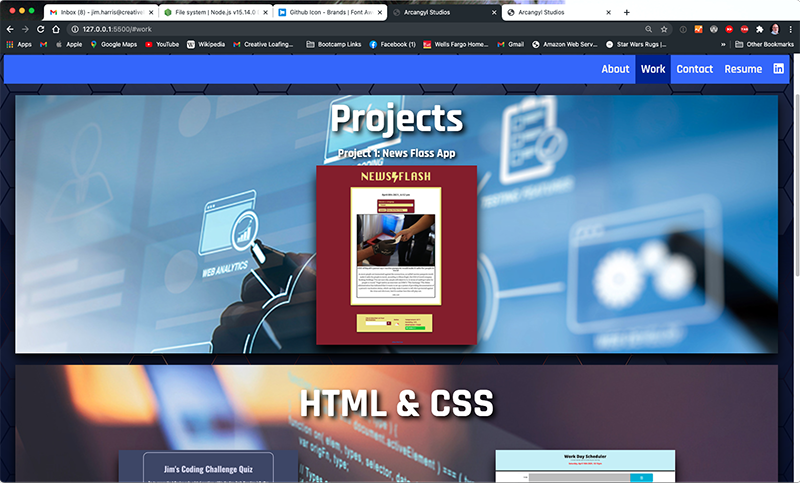
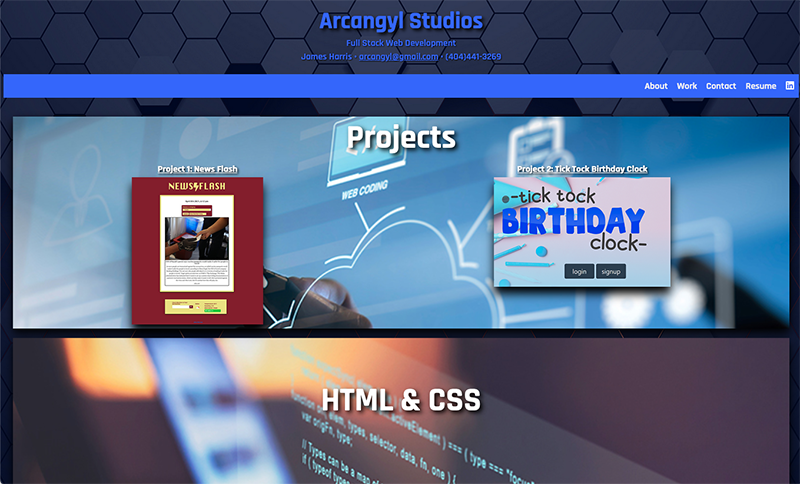
Updated README document and updated two of the README images

diff --git a/README.md b/README.md
@@ -1,59 +1,110 @@
-# AS-Portfolio
+# AS-Portfolio<br>
+###### *Updated June 2021*
 
 ## Description
 
-Newly redesigned portfolio page. Now includes images and links for homework projects: Coding Quiz Challenge, Weather Dashboard App, and Work Day Scheduler. The featured work panel for major projects now features Project 1:  News Flash App. Redesigned the About section so that it is initially hidden and only the work project sections are diplayed on initial load. Clicking the Navbar buttons for About and Work will toggle the content visibility for those sections.
-The work sections each have a heading label that will reveal the projects associated with the respective section when the heading is clicked. Each project has a title element that will load the GitHub repository page for that project in a separate tab. Clicking on the image will load published app page in separate tab.
+Updated portfolio page now includes images and links for latest homework projects: Third Triad Mojo Tech Blog, Note Taker App, and Password Generator in addition to the previous homework projects: Coding Quiz Challenge, Weather Dashboard App, and Work Day Scheduler. The featured work panel for major Projects now features Project 1:  News Flash App and Project 2: Tick Tock Birthday Clock. The Resume link now downloads an updated resume as well.
 
-## Installation
+Utilizes the following technologies:
+  * HTML
+  * JavaScript
+  * CSS
+---
 
-My files can be accessed in the repository [HERE](https://github.com/arcangyl1963/AS-Portfolio)
-The image below shows the repository where my project files are located:
+## Table of Contents<br>
 
-![Porfolio Repository](./assets/images/readme_portfolio_repository.png)
+[Usage](#usage)<br>
 
-The web application can be viewed [HERE](https://arcangyl1963.github.io/AS-Portfolio/).
+[License](#license)<br>
 
-The images below show the updated portfolio page design and highlights to some of the new features that have been added:
+[Contributors](#contributors)<br>
 
-The main page shows the redesigned layout featuring an updated theme and background image. The work project sections are displayed by default while the About bio section is hidden.
+[Tests](#tests)<br>
 
-![Main Portfolio Page](./assets/images/readme_portfolio_main_pg.png)
+[Questions](#Questions)<br>
 
-Clicking the About button in the navbar while hide the work project sections and reveal the About bio content. Note the About nav button color changes when it is the active selection.
+---
 
-![About Bio Revealed](./assets/images/readme_portfolio_about_bio.png)
+## Usage
 
-Hovering the cursor over the navbar buttons will also change the color theme of the button contents.
+My files can be accessed in the repository [HERE](https://github.com/arcangyl1963/AS-Portfolio)<br>
 
-![Button theme change on hover](./assets/images/readme_portfolio_button-hover.png)
+The image below shows the repository where my project files are located:<br>
 
-Clicking another navbar button will return the previously active button to the inactive theme state and the clicked button will display as active. Clicking the Work button reveals the work projects section and hides the About Bio section content.
+![Porfolio Repository](./assets/images/readme_portfolio_repository.png)<br>
 
-![Active navbar buttons](./assets/images/readme_portfolio_button-active.png)
+The web application can be viewed [HERE](https://arcangyl1963.github.io/AS-Portfolio/).<br>
 
-Clicking the Contact button auto-scrolls to display the Contact info located in the footer. Note the sticky-behavior of the navbar while scrolling the page.
+The images below show the updated portfolio page design and highlights to some of the new features that have been added:<br>
 
-![Footer and Sticky Navbar](./assets/images/readme_portfolio_contact_footer.png)
+The main page shows the redesigned layout featuring an updated theme and background image. The work project sections are displayed by default while the About bio section is hidden.<br>
 
-When you mouse-over the icon links for my email, my GitHub repositories, and LinkedIN profile, the icons change color.
+![Main Portfolio Page](./assets/images/readme_portfolio_main_pg.png)<br>
 
-![Footer icon links on mouse hover](./assets/images/readme_portfolio_contact_hover_icons.png)
+Clicking the About button in the navbar while hide the work project sections and reveal the About bio content. Note the About nav button color changes when it is the active selection.<br>
 
-Clicking the Resume button opens a PDF version of my updated resume in a new tab. The PDF can be viewed, printed, or downloaded using the built-in PDF viewer capabilities of most modern browsers.
+![About Bio Revealed](./assets/images/readme_portfolio_about_bio.png)<br>
 
-![Resume button](./assets/images/readme_portfolio_resume.png)
+Hovering the cursor over the navbar buttons will also change the color theme of the button contents.<br>
 
-Click the Work navbar button to reveal the projects section. There are three sections - Projects (for the three major projects), HTML & CSS, and Javascript.
+![Button theme change on hover](./assets/images/readme_portfolio_button-hover.png)<br>
 
-![Work project sections](./assets/images/readme_portfolio_work_sections.png)
+Clicking another navbar button will return the previously active button to the inactive theme state and the clicked button will display as active. Clicking the Work button reveals the work projects section and hides the About Bio section content.<br>
 
-Clicking on the section heading; i.e. "Projects", will reveal the project panels associated with each section. There is room to add additional panels for future projects and assigments. Our Project 1 panel is featured in the Projects section.
+![Active navbar buttons](./assets/images/readme_portfolio_button-active.png)<br>
 
-![Displaying projects in each section](./assets/images/readme_portfolio_workpanels_displayed.png)
+Clicking the Contact button auto-scrolls to display the Contact info located in the footer. Note the sticky-behavior of the navbar while scrolling the page.<br>
 
-Clicking on the project's image will open the application's published page from GitHub in new tab or window. Clicking on the project title will open the GitHub repository for the project.
+![Footer and Sticky Navbar](./assets/images/readme_portfolio_contact_footer.png)<br>
 
-![Displaying projects in each section](./assets/images/readme_portfolio_project_title.png)
+When you mouse-over the icon links for my email, my GitHub repositories, and LinkedIN profile, the icons change color.<br>
+
+![Footer icon links on mouse hover](./assets/images/readme_portfolio_contact_hover_icons.png)<br>
+
+Clicking the Resume button opens a PDF version of my updated resume in a new tab. The PDF can be viewed, printed, or downloaded using the built-in PDF viewer capabilities of most modern browsers.<br>
+
+![Resume button](./assets/images/readme_portfolio_resume.png)<br>
+
+Click the Work navbar button to reveal the projects section. There are three sections - Projects (for the three major projects), HTML & CSS, and Javascript & MySQL.<br>
+
+![Work project sections](./assets/images/readme_portfolio_work_sections.png)<br>
+
+Clicking on the section heading; i.e. "Projects", will reveal the project panels associated with each section. There is room to add additional panels for future projects and assigments. Our Project 1 panel is featured in the Projects section.<br>
+
+![Displaying projects in each section](./assets/images/readme_portfolio_workpanels_displayed.png)<br>
+
+![Displaying projects in each section](./assets/images/readme_portfolio_workpanels_displayed_2.png)<br>
+
+Clicking on the project's image will open the application's published page from GitHub in new tab or window. Clicking on the project title will open the GitHub repository for the project.<br>
+
+![Displaying projects in each section](./assets/images/readme_portfolio_project_title.png)<br>
+
+## License:<br>
+
+![License](https://img.shields.io/badge/License-MIT-green.svg)<br>This software is licensed under an MIT license:<br><br>Copyright © 2021 Arcangyl Studios<br><br>Permission is hereby granted, free of charge, to any person obtaining a copy of this software and associated documentation files (the 'Software'), to deal in the Software without restriction, including without limitation the rights to use, copy, modify, merge, publish, distribute, sublicense, and/or sell copies of the Software, and to permit persons to whom the Software is furnished to do so, subject to the following conditions:<br>The above copyright notice and this permission notice shall be included in all copies or substantial portions of the Software.<br>THE SOFTWARE IS PROVIDED 'AS IS', WITHOUT WARRANTY OF ANY KIND, EXPRESS OR IMPLIED, INCLUDING BUT NOT LIMITED TO THE WARRANTIES OF MERCHANTABILITY, FITNESS FOR A PARTICULAR PURPOSE AND NONINFRINGEMENT. IN NO EVENT SHALL THE AUTHORS OR COPYRIGHT HOLDERS BE LIABLE FOR ANY CLAIM, DAMAGES OR OTHER LIABILITY, WHETHER IN AN ACTION OF CONTRACT, TORT OR OTHERWISE, ARISING FROM, OUT OF OR IN CONNECTION WITH THE SOFTWARE OR THE USE OR OTHER DEALINGS IN THE SOFTWARE.<br>
+
+---
+
+## Contributors:<br>
+
+James Harris<br>
+
+---
+
+## Tests:<br>
+
+There were no test scripts created for this application.<br>
+
+---
+
+## Questions:<br>
+
+
+- Feel free to email me with any questions about this project at: arcangyl@gmail.com<br>
+
+![GitHubAvatar](https://avatars.githubusercontent.com/u/77169680?v=4)<br>
+
+- My GitHub profile may be viewed by clicking [here](https://github.com/arcangyl1963).
+
 
 © 2021 arcangyl studios
